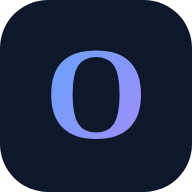
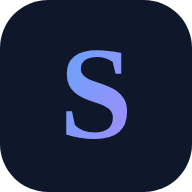
Переименование в Sózdik 3000
- Логотип в шапке: «Sózdik» + градиентный бейдж «3000»
- Новый favicon и PWA-иконки с буквой S
- Обновлены title, meta description, Open Graph, manifest, футер,
  тексты hero на обоих языках
- Версия кэша service worker поднята до sozdik3000-v2 — установленные
  PWA получат обновление автоматически
- Экспорт прогресса: новое имя файла и маркер приложения, старые
  экспорты oxford3000 принимаются для совместимости
- README: новое название, раздел о происхождении данных с рекомендацией
  миграции на NGSL (CC BY 4.0)
- Убраны все упоминания бренда Oxford из интерфейса и метаданных

https://claude.ai/code/session_01NM3as7BuVNNmE8HBVPs9Qe

diff --git a/app.js b/app.js
@@ -26,7 +26,7 @@ const UI_TEXT = {
   header_progress: { ru: 'Прогресс', kz: 'Прогресс' },
   header_streak: { ru: 'Дней подряд', kz: 'Қатарынан күн' },
   hero_title: { ru: 'Выучи английский<br>раз и навсегда', kz: 'Ағылшын тілін<br>біржолата үйреніңіз' },
-  hero_subtitle: { ru: '3000 самых важных слов Oxford с переводом на казахский и русский. Карточки, тест, ввод, повторение — четыре режима тренировки.', kz: 'Оксфордтың ең маңызды 3000 сөзі қазақша аудармасымен. Карталар, тест, жазу, қайталау — 4 жаттығу режимі.' },
+  hero_subtitle: { ru: '3000 самых важных английских слов с переводом на казахский и русский. Карточки, тест, ввод, повторение — четыре режима тренировки.', kz: 'Ағылшын тілінің ең маңызды 3000 сөзі қазақша аудармасымен. Карталар, тест, жазу, қайталау — 4 жаттығу режимі.' },
   btn_start: { ru: 'Начать тренировку →', kz: 'Жаттығуды бастау →' },
   lvl_a1: { ru: 'A1 — Начальный', kz: 'A1 — Бастапқы' },
   lvl_a2: { ru: 'A2 — Элементарный', kz: 'A2 — Қарапайым' },
@@ -66,7 +66,7 @@ const UI_TEXT = {
   graph_stat_total: { ru: 'Всего слов', kz: 'Барлық сөздер' },
   graph_stat_known: { ru: 'Изучено', kz: 'Жатталды' },
   graph_stat_left: { ru: 'Осталось', kz: 'Қалды' },
-  footer_title: { ru: 'Перевод на <strong>Қазақ</strong> / Русский языки', kz: '<strong>Қазақша</strong> / Орысша аударма' },
+  footer_title: { ru: '3000 самых важных английских слов · <strong>Қазақша</strong> / Русский', kz: 'Ең маңызды 3000 ағылшын сөзі · <strong>Қазақша</strong> / Орысша' },
   footer_desc: { ru: 'Делись с друзьями — открывается в любом браузере', kz: 'Достарыңызбен бөлісіңіз — кез келген браузерде ашылады' },
   confirm_reset: { ru: 'Сбросить весь прогресс? Это нельзя отменить.', kz: 'Барлық прогресті өшіру керек пе? Бұны кері қайтару мүмкін емес.' },
   btn_back: { ru: '← Назад', kz: '← Артқа' },
@@ -114,7 +114,7 @@ const UI_TEXT = {
   btn_import: { ru: '⬆ Импорт', kz: '⬆ Импорт' },
   confirm_import: { ru: 'Импорт заменит текущий прогресс. Продолжить?', kz: 'Импорт ағымдағы прогресті ауыстырады. Жалғастыру керек пе?' },
   import_ok: { ru: 'Прогресс импортирован!', kz: 'Прогресс импортталды!' },
-  import_err: { ru: 'Не удалось прочитать файл. Это точно экспорт Oxford 3000?', kz: 'Файлды оқу мүмкін болмады. Бұл Oxford 3000 экспорты ма?' }
+  import_err: { ru: 'Не удалось прочитать файл. Это точно экспорт Sózdik 3000?', kz: 'Файлды оқу мүмкін болмады. Бұл Sózdik 3000 экспорты ма?' }
 };
 
 function t(key) {
@@ -293,7 +293,7 @@ function resetProgress() {
 // ===== ЭКСПОРТ / ИМПОРТ ПРОГРЕССА =====
 function exportProgress() {
   const data = {
-    app: 'oxford3000',
+    app: 'sozdik3000',
     version: 2,
     exported: new Date().toISOString(),
     settings: { lang: appLang, sound: soundOn, timer: timerOn, goal: dailyGoal },
@@ -303,7 +303,7 @@ function exportProgress() {
   const blob = new Blob([JSON.stringify(data, null, 2)], { type: 'application/json' });
   const a = document.createElement('a');
   a.href = URL.createObjectURL(blob);
-  a.download = 'oxford3000-progress-' + todayKey() + '.json';
+  a.download = 'sozdik3000-progress-' + todayKey() + '.json';
   a.click();
   URL.revokeObjectURL(a.href);
 }
@@ -316,7 +316,8 @@ function importProgress(input) {
   reader.onload = () => {
     try {
       const data = JSON.parse(reader.result);
-      if(data.app !== 'oxford3000' || !data.progress) throw new Error('bad format');
+      // 'oxford3000' — старое имя приложения, принимаем для совместимости экспортов
+      if((data.app !== 'sozdik3000' && data.app !== 'oxford3000') || !data.progress) throw new Error('bad format');
       if(!confirm(t('confirm_import'))) return;
       localStorage.setItem('ox_progress', JSON.stringify(data.progress));
       if(Array.isArray(data.history)) localStorage.setItem('ox_history', JSON.stringify(data.history));

diff --git a/index.html b/index.html
@@ -3,12 +3,12 @@
 <head>
 <meta charset="UTF-8">
 <meta name="viewport" content="width=device-width, initial-scale=1.0">
-<title>Oxford 3000 — Тренажёр английских слов с переводом на казахский и русский</title>
-<meta name="description" content="3000 самых важных английских слов Oxford с переводом на казахский и русский языки. Бесплатный тренажёр: карточки, тесты, ввод перевода, повторение. Ағылшын тілін тегін үйреніңіз.">
+<title>Sózdik 3000 — Тренажёр английских слов с переводом на казахский и русский</title>
+<meta name="description" content="3000 самых важных английских слов с переводом на казахский и русский языки. Бесплатный тренажёр: карточки, тесты, ввод перевода, интервальное повторение. Ағылшын тілін тегін үйреніңіз.">
 <meta name="theme-color" content="#0d0f14">
 <meta property="og:type" content="website">
-<meta property="og:title" content="Oxford 3000 — тренажёр английских слов">
-<meta property="og:description" content="3000 самых важных английских слов с переводом на казахский и русский. Карточки, тесты, ввод, повторение — бесплатно и в любом браузере.">
+<meta property="og:title" content="Sózdik 3000 — тренажёр английских слов">
+<meta property="og:description" content="3000 самых важных английских слов с переводом на казахский и русский. Карточки, тесты, ввод, интервальное повторение — бесплатно и в любом браузере.">
 <meta property="og:image" content="icons/icon-512.png">
 <meta name="twitter:card" content="summary">
 <link rel="icon" type="image/svg+xml" href="favicon.svg">
@@ -23,7 +23,7 @@
 <header>
   <div style="display:flex;align-items:center;">
     <a href="#" class="logo" onclick="scrollToApp()">
-      Oxford 3000
+      Sózdik <span class="logo-badge">3000</span>
     </a>
     <div class="lang-switcher">
       <button class="ls-btn active" id="ls-kz" onclick="setAppLang('kz')">ҚАЗ</button>
@@ -52,7 +52,7 @@
 
 <section class="hero">
   <h1 data-i18n="hero_title">Выучи английский<br>раз и навсегда</h1>
-  <p data-i18n="hero_subtitle">3000 самых важных слов Oxford с переводом на русский. Карточки, тесты, ввод — три режима тренировки.</p>
+  <p data-i18n="hero_subtitle">3000 самых важных английских слов с переводом на казахский и русский. Карточки, тесты, ввод, повторение — четыре режима тренировки.</p>
   <a href="#app" class="hero-cta" onclick="document.getElementById('app').scrollIntoView({behavior:'smooth'})" data-i18n="btn_start">
     Начать тренировку →
   </a>
@@ -169,7 +169,7 @@
 </div>
 
 <footer>
-  <p>Oxford 3000™ American English · <span data-i18n="footer_title">Перевод на Қазақ / Русский языки</span></p>
+  <p><strong>Sózdik 3000</strong> · <span data-i18n="footer_title">3000 самых важных английских слов · Қазақша / Русский</span></p>
   <p style="margin-top:6px;font-size:12px" data-i18n="footer_desc">Делись с друзьями — открывается в любом браузере</p>
 </footer>
 

diff --git a/sw.js b/sw.js
@@ -1,6 +1,6 @@
 // Service worker: офлайн-режим через кэширование оболочки приложения.
 // При изменении любого файла поднимите версию кэша.
-const CACHE = 'oxford3000-v1';
+const CACHE = 'sozdik3000-v2';
 const ASSETS = [
   './',
   './index.html',

diff --git a/README.md b/README.md
@@ -1,4 +1,4 @@
-# Oxford 3000 — тренажёр английских слов
+# Sózdik 3000 — тренажёр английских слов
 
 Бесплатный тренажёр для изучения 3000+ самых важных английских слов с переводом
 на **казахский** и **русский** языки. Работает в любом браузере, устанавливается
@@ -58,7 +58,7 @@ node tools/smoke-test.js   # требуется playwright и установле
 ```
 
 Прогоняйте обе проверки перед каждым релизом. При изменении любого файла
-приложения не забудьте поднять версию кэша в `sw.js` (`oxford3000-v1` → `v2`),
+приложения не забудьте поднять версию кэша в `sw.js` (`sozdik3000-v2` → `v3`),
 иначе пользователи с установленным PWA не получат обновление.
 
 ## Хранение данных
@@ -71,9 +71,11 @@ node tools/smoke-test.js   # требуется playwright и установле
 
 Старый формат прогресса (`{known: [], repeat: []}`) мигрирует автоматически.
 
-## Замечание о названии
+## Происхождение данных
 
-«Oxford 3000™» — торговая марка Oxford University Press, и сам список слов
-защищён их авторским правом. Перед публичным запуском (особенно с монетизацией)
-изучите условия использования списка на сайте OUP или переименуйте продукт,
-не используя бренд Oxford.
+Словарь — 3000+ самых важных английских слов по уровням CEFR (A1–B2)
+с переводами на казахский и русский. Для полной лицензионной чистоты
+в перспективе рекомендуется перевести базу на
+[NGSL (New General Service List)](https://www.newgeneralservicelist.com/) —
+научно составленный список ~2800 самых частотных слов под открытой
+лицензией CC BY 4.0.
